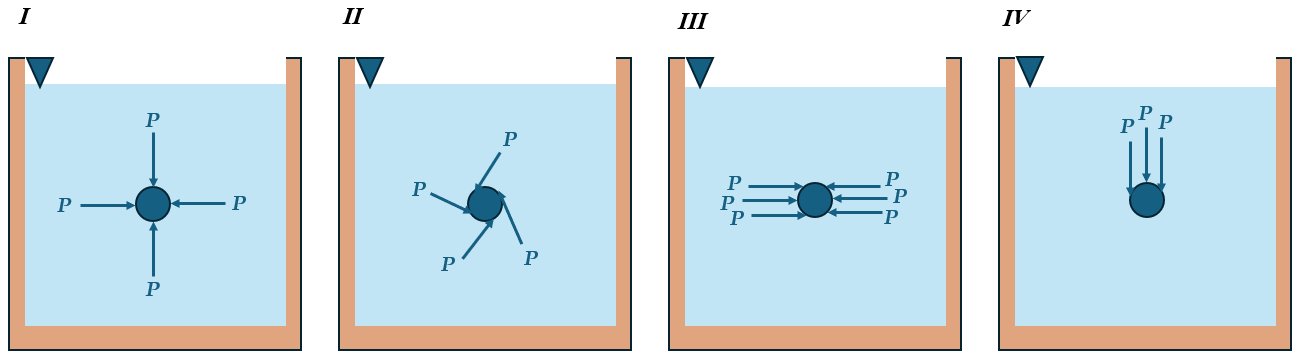
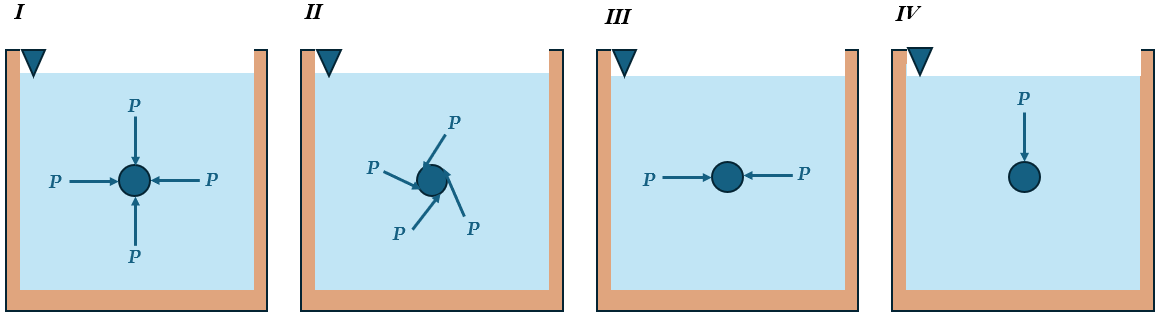
Organización teoría

diff --git a/Class_Teoria.py b/Class_Teoria.py
@@ -468,7 +468,8 @@ conceptuales = [
         respuesta_P2 = "",
         ),
 
-    #----------------------------------------------------- Momentos --------------------------------------------------------
+    #----------------------------------------------------- Momentos -------------------------------------------------------
+    #------------------------------------------------ Momento en un punto -------------------------------------------------
     #-------------------------------------------------    21000#0       ---------------------------------------------------
     Theory(#1
        code = 2100010, 
@@ -556,7 +557,7 @@ conceptuales = [
         ),
              
     # Theory(#5
-    #     code = 1300050, 
+    #     code = 2100050, 
     #     no_pregunta = 5,
     #     topic = "Equilibrio de partículas",
     #     subtopic = "Momentos",
@@ -615,7 +616,7 @@ conceptuales = [
         ),
              
     # Theory(#8
-    #     code = 1300080, 
+    #     code = 2100080, 
     #     no_pregunta = 8,
     #     topic = "Equilibrio de partículas",
     #     subtopic = "Momentos",
@@ -630,7 +631,7 @@ conceptuales = [
     #     ),
              
     # Theory(#9
-    #     code = 1300090, 
+    #     code = 2100090, 
     #     no_pregunta = 9,
     #     topic = "Equilibrio de partículas",
     #     subtopic = "Momentos",
@@ -645,7 +646,20 @@ conceptuales = [
     #     respuesta_P2 = "",
     #     ),   
 
-   
+
+
+    #----------------------------------------------------- Momentos -------------------------------------------------------
+    #------------------------------------------------ Momento alrededor de un eje -------------------------------------------------
+    #-------------------------------------------------    22000#0       ---------------------------------------------------
+
+
+
+    #----------------------------------------------------- Momentos -------------------------------------------------------
+    #------------------------------------------------ Momentos pares -------------------------------------------------
+    #-------------------------------------------------    23000#0       ---------------------------------------------------
+
+
+
     #--------------------------------------------------- Incertidumbre ----------------------------------------------------------
     #-------------------------------------------------       31000#0      ---------------------------------------------------
     # Theory(#1
@@ -764,10 +778,79 @@ conceptuales = [
         ),
 
 
+
+    #-------------------------------------------------  Sistemas equivalentes ---------------------------------------------------
+    #-------------------------------------------------       41000##0         ---------------------------------------------------
+    # Theory(#1
+    #     code = 4100010, 
+    #     no_pregunta = 1,
+    #     topic = "Equilibrio de partículas",
+    #     subtopic = "Sistemas equivalentes",
+    #     enunciado ="Dos sistemas de fuerzas son equivalentes cuando:", 
+    #     opcion_1 = "Tienen el mismo número de fuerzas con igual magnitud pero diferente ubicación.",
+    #     opcion_2 = "Actúan sobre cuerpos con la misma geometría.",
+    #     opcion_3 = "Tienen la misma resultante y el mismo momento con respecto a un punto.",
+    #     opcion_4 = "La sumatoria de las resultantes de cada sistema es igual a 0. ",
+    #     opcion_correcta = "Tienen la misma resultante y el mismo momento con respecto a un punto.",
+    #     respuesta_P1 = "Dos sistemas son equivalentes si, al reducirlos, generan la misma fuerza resultante y el mismo momento respecto a un punto dado. Esto significa que, aunque las fuerzas individuales sean diferentes, su efecto global sobre el cuerpo es el mismo.",
+    #     respuesta_P2 = "",
+    #     ),
+
+    # Theory(#2
+    #     code = 4100020, 
+    #     no_pregunta = 2,
+    #     topic = "Equilibrio de partículas",
+    #     subtopic = "Sistemas equivalentes",
+    #     enunciado ="¿Cuál es la principal utilidad de reducir un sistema de fuerzas a una fuerza resultante y un momento?", 
+    #     opcion_1 = "Simplificar el análisis de equilibrio y distribución de cargas en un cuerpo rígido.",
+    #     opcion_2 = "Aumentar la precisión en el cálculo de deformaciones en estructuras.",
+    #     opcion_3 = "Determinar el centro de masa exacto de un objeto.",
+    #     opcion_4 = "Estudiar cómo una estructura se deforma",
+    #     opcion_correcta = "Simplificar el análisis de equilibrio y distribución de cargas en un cuerpo rígido.",
+    #     respuesta_P1 = "Reducir un sistema de fuerzas a una fuerza resultante y un momento permite trabajar con una representación más sencilla del sistema. Esto es especialmente útil en estructuras, donde analizar todas las fuerzas individualmente sería complejo.",
+    #     respuesta_P2 = "",
+    #     ),
+
+    # Theory(#3
+    #     code = 4100030, 
+    #     no_pregunta = 3,
+    #     topic = "Equilibrio de partículas",
+    #     subtopic = "Sistemas equivalentes",
+    #     enunciado ="La forma de reducir un sistema de fuerzas es:", 
+    #     opcion_1 = "Encontrar la resultante y ubicarla en el punto medio entre ellas.",
+    #     opcion_2 = "Convertir las fuerzas distribuidas en fuerzas puntuales y viceversa.",
+    #     opcion_3 = "Cambiar las magnitudes de la fuerzas de tal forma que la resultante sea la misma.",
+    #     opcion_4 = "Encontrar la resultante y ubicarla en el punto en el que el momento generado por esta sea el mismo.",
+    #     opcion_correcta = "Encontrar la resultante y ubicarla en el punto en el que el momento generado por esta sea el mismo.",
+    #     respuesta_P1 = """El procedimiento general para encontrar un sistema de fuerzas equivalentes es:
+    #     1. Se hace la suma vectorial de todas las fuerzas aplicadas al sistema. 
+    #     2. Se calcula el momento en el sistema original respecto a un punto cualquiera (O) usando producto cruz y se suman los momentos.
+    #     3. Se calcula la posición de la resultante \\( \overrightarrow{r} \) utilizando producto cruz. Esto teniendo en cuenta que la fuerza que debe tomarse es la resultante calculada y que el momento tomado es el calculado en el paso anterior.
+    #     De esta forma se encuentra la ubicación de la resultante que permite que los momentos en ambos sean iguales medido desde el mismo punto (O).
+    #     Nota: Cuando es un sistema en 2D lo usual es calcular el momento con las distancias perpendiculares.""",
+    #     respuesta_P2 = "",
+    #     ),
+                     
+    # Theory(#4
+    #     code = 4100040, 
+    #     no_pregunta = 4,
+    #     topic = "Equilibrio de partículas",
+    #     subtopic = "Sistemas equivalentes",
+    #     enunciado ="El sistema de fuerzas equivalente al de la siguiente figura es:", 
+    #     opcion_1 = "Opción I",
+    #     opcion_2 = "Opción II",
+    #     opcion_3 = "Opción III",
+    #     opcion_4 = "Ninguna",
+    #     opcion_correcta = "Opción I",
+    #     respuesta_P1 = "Note que la opción I tiene la fuerza resultante ubicada a una distancia x calculada a partir del momento del sistema original.",
+    #     respuesta_P2 = "",
+    #     ),
+
+
     # #------------------------------------------------------ Apoyos ----------------------------------------------------------
     # #-------------------------------------------------    51000##0       ---------------------------------------------------
     # Theory(#1
-    #     code = 1400010, 
+    #     code = 5100010, 
     #     no_pregunta = 1,
     #     topic = "Apoyos y reacciones",
     #     subtopic = "Apoyos y reacciones",
@@ -797,7 +880,7 @@ conceptuales = [
         ),
              
     # Theory(#3
-    #     code = 1400030, 
+    #     code = 5100030, 
     #     no_pregunta = 3,
     #     topic = "Apoyos y reacciones",
     #     subtopic = "Apoyos y reacciones",
@@ -830,78 +913,11 @@ conceptuales = [
         ),
                  
 
-
-    # #-------------------------------------------------  Sistemas equivalentes ---------------------------------------------------
-    # #-------------------------------------------------       15000##0         ---------------------------------------------------
+    #-----------------------------------------------------  Armaduras ----------------------------------------------------------
+    #------------------------------------------------------  Cerchas -----------------------------------------------------------
+    #-------------------------------------------------      61000##0         ---------------------------------------------------
     # Theory(#1
-    #     code = 1500010, 
-    #     no_pregunta = 1,
-    #     topic = "Equilibrio de partículas",
-    #     subtopic = "Sistemas equivalentes",
-    #     enunciado ="Dos sistemas de fuerzas son equivalentes cuando:", 
-    #     opcion_1 = "Tienen el mismo número de fuerzas con igual magnitud pero diferente ubicación.",
-    #     opcion_2 = "Actúan sobre cuerpos con la misma geometría.",
-    #     opcion_3 = "Tienen la misma resultante y el mismo momento con respecto a un punto.",
-    #     opcion_4 = "La sumatoria de las resultantes de cada sistema es igual a 0. ",
-    #     opcion_correcta = "Tienen la misma resultante y el mismo momento con respecto a un punto.",
-    #     respuesta_P1 = "Dos sistemas son equivalentes si, al reducirlos, generan la misma fuerza resultante y el mismo momento respecto a un punto dado. Esto significa que, aunque las fuerzas individuales sean diferentes, su efecto global sobre el cuerpo es el mismo.",
-    #     respuesta_P2 = "",
-    #     ),
-
-    # Theory(#2
-    #     code = 1500020, 
-    #     no_pregunta = 2,
-    #     topic = "Equilibrio de partículas",
-    #     subtopic = "Sistemas equivalentes",
-    #     enunciado ="¿Cuál es la principal utilidad de reducir un sistema de fuerzas a una fuerza resultante y un momento?", 
-    #     opcion_1 = "Simplificar el análisis de equilibrio y distribución de cargas en un cuerpo rígido.",
-    #     opcion_2 = "Aumentar la precisión en el cálculo de deformaciones en estructuras.",
-    #     opcion_3 = "Determinar el centro de masa exacto de un objeto.",
-    #     opcion_4 = "Estudiar cómo una estructura se deforma",
-    #     opcion_correcta = "Simplificar el análisis de equilibrio y distribución de cargas en un cuerpo rígido.",
-    #     respuesta_P1 = "Reducir un sistema de fuerzas a una fuerza resultante y un momento permite trabajar con una representación más sencilla del sistema. Esto es especialmente útil en estructuras, donde analizar todas las fuerzas individualmente sería complejo.",
-    #     respuesta_P2 = "",
-    #     ),
-
-    # Theory(#3
-    #     code = 1500030, 
-    #     no_pregunta = 3,
-    #     topic = "Equilibrio de partículas",
-    #     subtopic = "Sistemas equivalentes",
-    #     enunciado ="La forma de reducir un sistema de fuerzas es:", 
-    #     opcion_1 = "Encontrar la resultante y ubicarla en el punto medio entre ellas.",
-    #     opcion_2 = "Convertir las fuerzas distribuidas en fuerzas puntuales y viceversa.",
-    #     opcion_3 = "Cambiar las magnitudes de la fuerzas de tal forma que la resultante sea la misma.",
-    #     opcion_4 = "Encontrar la resultante y ubicarla en el punto en el que el momento generado por esta sea el mismo.",
-    #     opcion_correcta = "Encontrar la resultante y ubicarla en el punto en el que el momento generado por esta sea el mismo.",
-    #     respuesta_P1 = """El procedimiento general para encontrar un sistema de fuerzas equivalentes es:
-    #     1. Se hace la suma vectorial de todas las fuerzas aplicadas al sistema. 
-    #     2. Se calcula el momento en el sistema original respecto a un punto cualquiera (O) usando producto cruz y se suman los momentos.
-    #     3. Se calcula la posición de la resultante \\( \overrightarrow{r} \) utilizando producto cruz. Esto teniendo en cuenta que la fuerza que debe tomarse es la resultante calculada y que el momento tomado es el calculado en el paso anterior.
-    #     De esta forma se encuentra la ubicación de la resultante que permite que los momentos en ambos sean iguales medido desde el mismo punto (O).
-    #     Nota: Cuando es un sistema en 2D lo usual es calcular el momento con las distancias perpendiculares.""",
-    #     respuesta_P2 = "",
-    #     ),
-                     
-    # Theory(#4
-    #     code = 1500040, 
-    #     no_pregunta = 4,
-    #     topic = "Equilibrio de partículas",
-    #     subtopic = "Sistemas equivalentes",
-    #     enunciado ="El sistema de fuerzas equivalente al de la siguiente figura es:", 
-    #     opcion_1 = "Opción I",
-    #     opcion_2 = "Opción II",
-    #     opcion_3 = "Opción III",
-    #     opcion_4 = "Ninguna",
-    #     opcion_correcta = "Opción I",
-    #     respuesta_P1 = "Note que la opción I tiene la fuerza resultante ubicada a una distancia x calculada a partir del momento del sistema original.",
-    #     respuesta_P2 = "",
-    #     ),
-
-    #------------------------------------------------------  Cerchas ------------------------------------------------------------
-    #-------------------------------------------------       16000##0         ---------------------------------------------------
-    # Theory(#1
-    #     code = 1600010, 
+    #     code = 6100010, 
     #     no_pregunta = 1,
     #     topic = "Equilibrio de partículas",
     #     subtopic = "Cerchas",
@@ -916,7 +932,7 @@ conceptuales = [
     #     ),
 
     # Theory(#2
-    #     code = 1600020, 
+    #     code = 6100020, 
     #     no_pregunta = 2,
     #     topic = "Equilibrio de partículas",
     #     subtopic = "Cerchas",
@@ -931,7 +947,7 @@ conceptuales = [
     #     ),
 
     # Theory(#3
-    #     code = 1600030, 
+    #     code = 6100030, 
     #     no_pregunta = 3,
     #     topic = "Equilibrio de partículas",
     #     subtopic = "Cerchas",
@@ -946,7 +962,7 @@ conceptuales = [
     #     ),
                      
     # Theory(#4
-    #     code = 1600040, 
+    #     code = 6100040, 
     #     no_pregunta = 4,
     #     topic = "Equilibrio de partículas",
     #     subtopic = "Cerchas",
@@ -961,7 +977,7 @@ conceptuales = [
     #     ),
                      
     # Theory(#5
-    #     code = 1600050, 
+    #     code = 6100050, 
     #     no_pregunta = 5,
     #     topic = "Equilibrio de partículas",
     #     subtopic = "Cerchas",
@@ -981,7 +997,7 @@ conceptuales = [
     #     ),
                          
     # Theory(#6
-    #     code = 1600060, 
+    #     code = 6100060, 
     #     no_pregunta = 6,
     #     topic = "Equilibrio de partículas",
     #     subtopic = "Cerchas",
@@ -996,7 +1012,7 @@ conceptuales = [
     #     ),
 
     # Theory(#7
-    #     code = 1700060, 
+    #     code = 6100070, 
     #     no_pregunta = 7,
     #     topic = "Equilibrio de partículas",
     #     subtopic = "Cerchas",
@@ -1010,6 +1026,10 @@ conceptuales = [
     #     respuesta_P2 = "",
     #     ),                 
 
+
+#-----------------------------------------------------  Armaduras ----------------------------------------------------------
+#------------------------------------------------------  Marcos -----------------------------------------------------------
+#-------------------------------------------------      62000##0         ---------------------------------------------------
 
 
 #------------------------------------------------------  Centroides-----------------------------------------------------------
@@ -1197,8 +1217,9 @@ conceptuales = [
         respuesta_P2 = "",
         ),
 
-#---------------------------------------------- Fuerzas distribuidas- VIGAS -------------------------------------------------
-#-------------------------------------------------       81000##0         ---------------------------------------------------
+#---------------------------------------------- Fuerzas distribuidas ----------------------------------
+#----------------------------------------------------- Vigas ------------------------------------------
+#-------------------------------------------------   81000##0   ---------------------------------------
     
     Theory(#1
         code = 8100010, 
@@ -1315,9 +1336,9 @@ conceptuales = [
         ),
 
 
-     
-#---------------------------------------------- Fuerzas distribuidas- PRESIÓN HIDROSTÁTICA -------------------------------------------------
-#-------------------------------------------------       82000##0         ---------------------------------------------------
+#---------------------------------------------- Fuerzas distribuidas ----------------------------------
+#---------------------------------------------- Presión hidrostática ----------------------------------
+#-------------------------------------------------   82000##0    --------------------------------------
 
     Theory(#1
         code = 8200010, 
@@ -1395,7 +1416,7 @@ conceptuales = [
         no_pregunta = 5,
         topic = "Fuerzas distribuidas",
         subtopic = "Presión hidrostática",
-        enunciado = "Considere un punto sumergido en un fluido. ¿Cuál de las siguientes representaciones de la presión en ese punto es incorrecta?", 
+        enunciado = "Considere una esfera sumergida en un fluido. ¿Cuál de las siguientes representaciones de la presión sobre la esfera es incorrecta?", 
         opcion_1 = "La representación incorrecta es I. Porque la presión en un fluido actúa únicamente de forma horizontal. ",
         opcion_2 = "La representación incorrecta es II. Porque la presión en un punto sumergido debe actuar perpendicularmente a la superficie, no con ángulos menores a 90°.",
         opcion_3 = "La representación incorrecta es III. Porque la presión en un fluido no solo se ejerce en una dirección horizontal, sino en todas las direcciones perpendiculares a la superficie.",
@@ -1486,8 +1507,9 @@ conceptuales = [
         ),
 
 
-#-------------------------------------- Fuerzas distribuidas- EMPUJE DE SUELO ----------------------------------------------
-#-------------------------------------------------       83000##0         ---------------------------------------------------
+#---------------------------------------------- Fuerzas distribuidas -------------------------------
+#------------------------------------------------ Empuje de suelo ----------------------------------
+#-------------------------------------------------    83000##0   -----------------------------------
     
     Theory(#1
         code = 8300010, 
